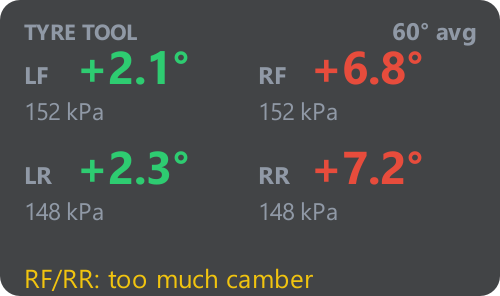
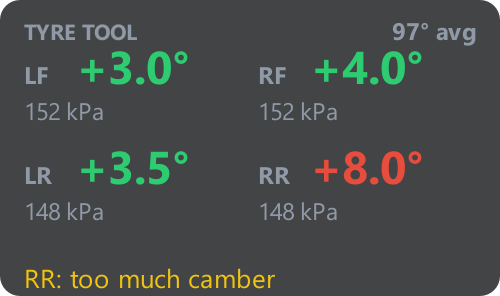
fix(demo): витрина показывала невозможные вещи
Продолжение разбора глазами. Три находки, все в демо-данных — то есть
ровно в том, что видит человек, впервые открывший сайт.

ДВЕ РАЗНЫЕ МАШИНЫ В ОДНОМ ШКАФУ. Живая телеметрия демо давала 90–105 °C,
а Tyre Tool — 60 °C, снятые с настоящей сессии на другой трассе. Карточки
стояли рядом и описывали разные заезды, а вердикт «too much camber»
относился к колёсам, которых на соседней карточке нет. Теперь Tyre Tool
считает по тем же температурам, что показывает Tire temps.

ИНСТРУМЕНТ, КОТОРЫЙ РУГАЕТСЯ ВСЕГДА. Перекос кромок был одинаковым на всех
четырёх колёсах, и Tyre Tool писал «too much camber» четыре раза подряд.
Ради того он и нужен, чтобы отличать колесо, где развал работает, от
колеса, где перебор, — витрина обязана это показывать. Теперь три колеса
зелёные, одно красное и один пункт в списке дел.

105% ПРОТЕКТОРА. Внешняя зона получала `wear + 0.05` и на первых кругах
выходила 1.05 — карточка честно печатала «105%». Протектора больше, чем у
новой шины, не бывает.

diff --git a/overlay/demo.py b/overlay/demo.py
@@ -163,13 +163,21 @@ class DemoFeed:
                 # витрина показывала невозможную машину: слева греется
                 # внутренняя кромка, справа — внешняя. Отрицательный развал
                 # стоит на обеих сторонах и греет внутреннюю у всех четырёх.
+                #
+                # Перекос РАЗНЫЙ по колёсам, и это не украшательство: когда
+                # он одинаковый, Tyre Tool пишет «too much camber» на всех
+                # четырёх сразу, и инструмент выглядит так, будто ругается
+                # всегда. Ради этого он и нужен — отличать колесо, где
+                # развал работает, от колеса, где его перебор.
                 "tires": {c: dict(zip(("tl", "tm", "tr"),
-                                      (edge, mid, hot) if c[0] == "L"
-                                      else (hot, mid, edge)))
+                                      (out, mid, inn) if c[0] == "L"
+                                      else (inn, mid, out)))
                           for i, c in enumerate(("LF", "RF", "LR", "RR"))
-                          for edge, mid, hot in [(78 + i * 3 + v * 14,
-                                                  82 + i * 3 + v * 14,
-                                                  86 + i * 3 + v * 14)]},
+                          for skew in [(3.0, 4.0, 3.5, 8.0)[i]]
+                          for base in [80 + i * 3 + v * 14]
+                          for out, mid, inn in [(base - skew / 2,
+                                                 base + 1.0,
+                                                 base + skew / 2)]},
                 "shock_defl": {},
             }
 
@@ -201,17 +209,20 @@ class DemoFeed:
             }
 
         if ep == "tyres":
-            # Правые колёса греют внутреннюю кромку сильнее левых — ровно так
-            # это выглядит в его настоящей телеметрии с Road America.
-            temps = {"LF": (61.2, 60.8, 63.3), "RF": (60.4, 56.7, 53.6),
-                     "LR": (60.7, 61.3, 63.0), "RR": (62.0, 60.3, 54.8)}
+            # Берём ТЕ ЖЕ температуры, что показывает виджет Tire temps.
+            #
+            # Раньше здесь стояли числа, снятые с настоящей сессии на Road
+            # America (60 °C), а живая телеметрия демо давала 90–105 °C. В
+            # одном шкафу с товаром стояли две разные машины: виджет
+            # температур показывал одно, Tyre Tool — другое, и вердикт «too
+            # much camber» относился к колёсам, которых на соседней карточке
+            # нет. Числа из настоящего заезда честнее по происхождению, но
+            # витрина должна описывать ОДНУ сессию.
+            from ire.metrics.tire import edges, tire_metrics
             from ire.metrics.tyres import report as _tyre_report
-            t = {}
-            for c, (l, m, r) in temps.items():
-                inner, outer = (r, l) if c[0] == "L" else (l, r)
-                t[c] = {"tl": l, "tm": m, "tr": r, "inner": inner, "outer": outer,
-                        "spread": round(max(l, m, r) - min(l, m, r), 1)}
-            t["front_rear_balance"] = -1.0
+
+            live_t = self.get("live")["tires"]
+            t = tire_metrics([{"tires": live_t}])
             return _tyre_report(t, {
                 "TiresAero.LeftFront.StartingPressure": "152 kPa",
                 "TiresAero.RightFront.StartingPressure": "152 kPa",
@@ -284,10 +295,19 @@ class DemoFeed:
             }
 
         if ep == "wear":
-            return {c: {"l": round(wear + 0.05 - i * 0.02, 3),
-                        "m": round(wear - i * 0.02, 3),
-                        "r": round(wear - 0.06 - i * 0.02, 3),
-                        "min": round(wear - 0.06 - i * 0.02, 3)}
+            # Остаток протектора — доля от нового, то есть НЕ БОЛЬШЕ единицы.
+            # Раньше внешняя зона получала `wear + 0.05` и на первых кругах
+            # выходила 1.05: карточка честно печатала «105%», а протектора
+            # больше, чем у новой шины, не бывает. Ошибка была видна ровно
+            # там, где на неё смотрят, и ровно поэтому её никто не искал.
+            def zones(i):
+                mid = min(1.0, wear - i * 0.02)
+                return {"l": round(min(1.0, mid + 0.05), 3),
+                        "m": round(mid, 3),
+                        "r": round(max(0.0, mid - 0.06), 3),
+                        "min": round(max(0.0, mid - 0.06), 3)}
+
+            return {c: zones(i)
                     for i, c in enumerate(("LF", "RF", "LR", "RR"))}
 
         if ep == "session":

diff --git a/tests/test_widget_readability.py b/tests/test_widget_readability.py
@@ -249,3 +249,49 @@ def test_only_one_demo_row_holds_the_fastest_lap():
     fast = W.fastest_laps(rows)
     winners = [r for r in rows if r["best"] <= fast.get(r.get("car_class") or "", 0)]
     assert len(winners) == 1, [r["name"] for r in winners]
+
+
+def test_the_two_tyre_cards_describe_the_same_car():
+    """Tire temps и Tyre Tool стояли на разных числах.
+
+    В живой телеметрии демо было 90–105 °C, а в Tyre Tool — 60 °C, снятые
+    с настоящей сессии на другой трассе. В одном шкафу с товаром стояли две
+    разные машины, и вердикт «too much camber» относился к колёсам, которых
+    на соседней карточке нет.
+    """
+    from overlay.demo import DemoFeed
+
+    f = DemoFeed()
+    live = f.get("live")["tires"]
+    tool = f.get("tyres")
+    assert tool["ok"]
+    for c in ("LF", "RF", "LR", "RR"):
+        assert abs(tool["corners"][c]["middle"] - live[c]["tm"]) < 0.05, c
+
+
+def test_the_demo_shows_the_tool_telling_wheels_apart():
+    """Одинаковый перекос на всех четырёх — и Tyre Tool ругается всегда.
+
+    Ради того он и нужен, чтобы отличать колесо, где развал работает, от
+    колеса, где его перебор. Витрина обязана это показывать.
+    """
+    from overlay.demo import DemoFeed
+
+    corners = DemoFeed().get("tyres")["corners"]
+    verdicts = {c: corners[c]["camber"] for c in ("LF", "RF", "LR", "RR")}
+    assert len(set(verdicts.values())) > 1, verdicts
+    assert "working" in verdicts.values()
+    assert "too_much" in verdicts.values()
+
+
+def test_no_tyre_has_more_tread_than_a_new_one():
+    """Карточка печатала «105%»: протектора больше, чем у новой шины, нет.
+
+    Ошибка была видна ровно там, где на неё смотрят, — и ровно поэтому её
+    никто не искал.
+    """
+    from overlay.demo import DemoFeed
+
+    for corner, zones in DemoFeed().get("wear").items():
+        for k, v in zones.items():
+            assert 0.0 <= v <= 1.0, f"{corner}.{k} = {v}"
